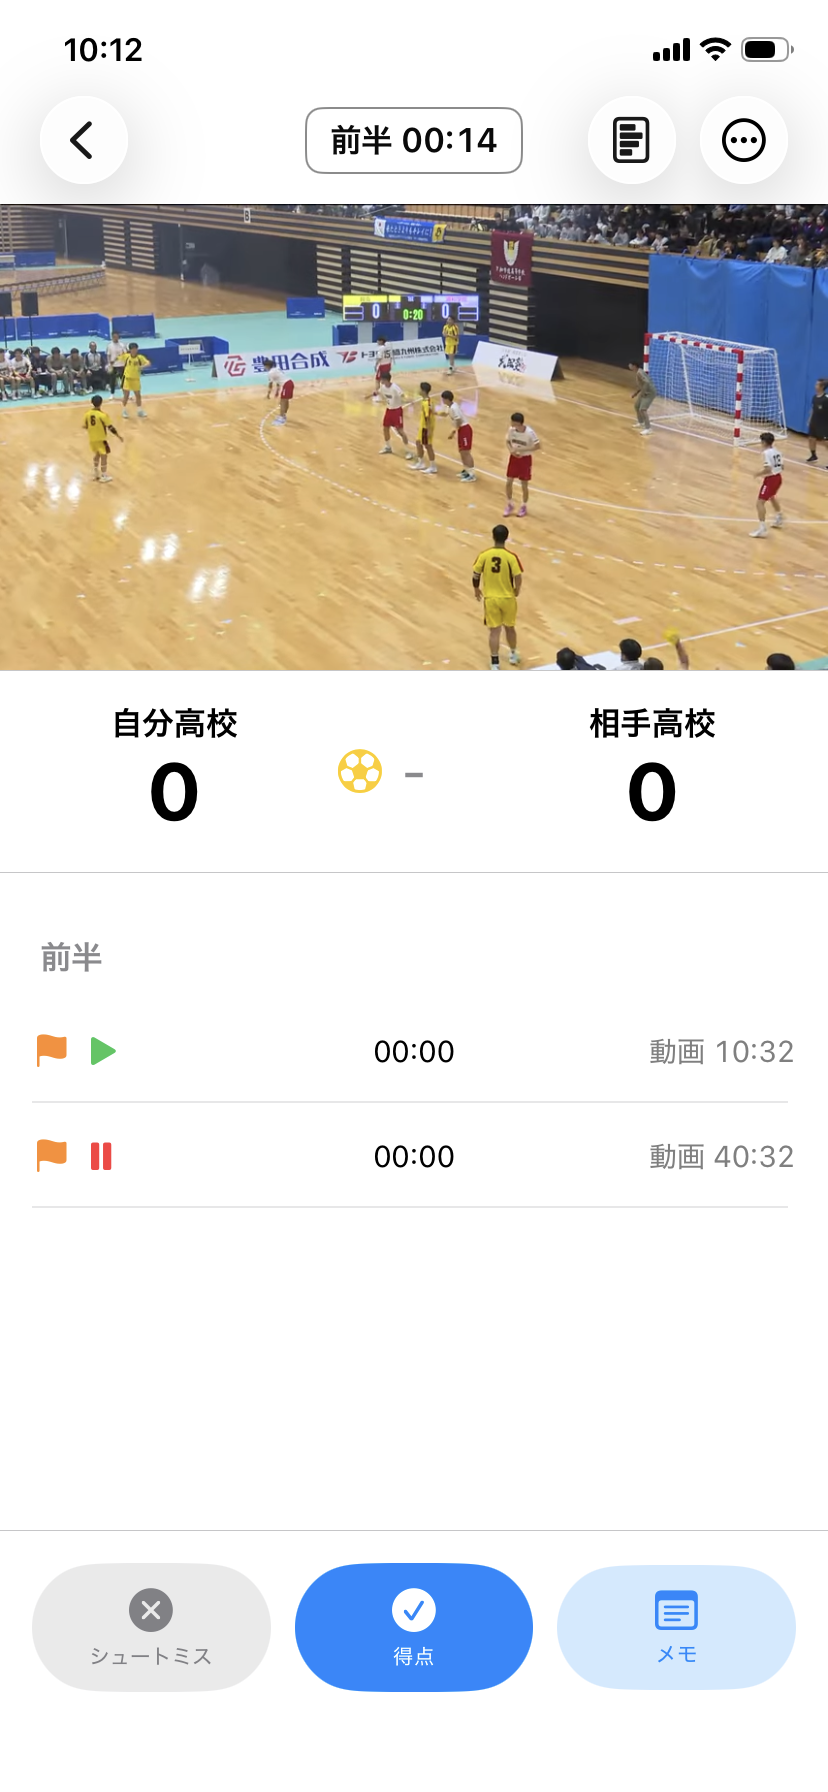
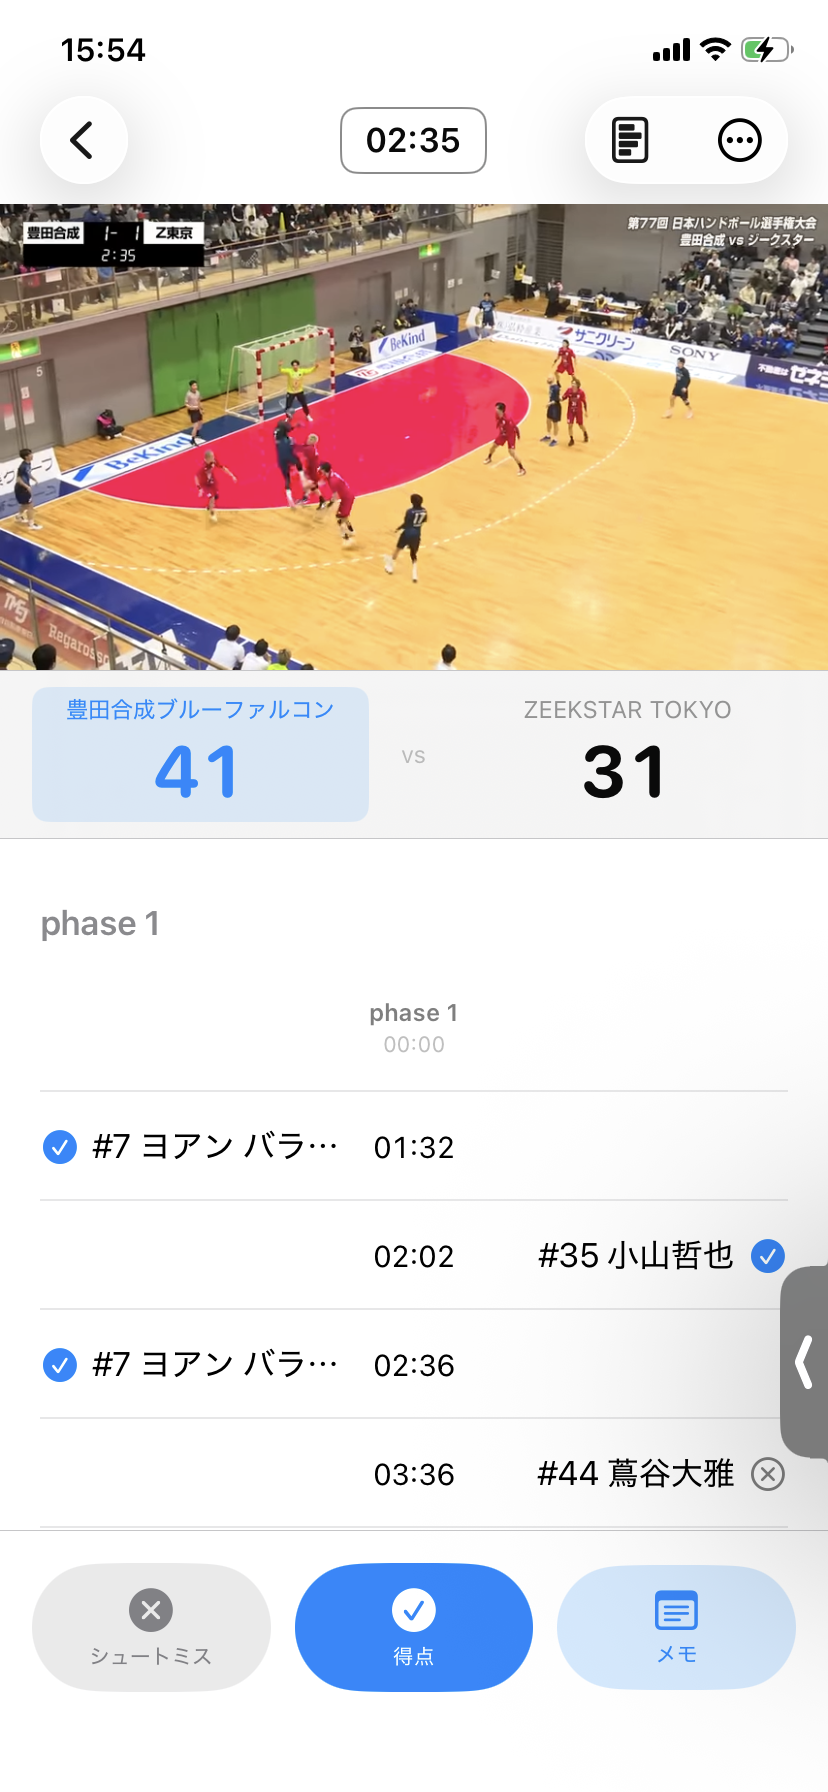
feat: セクション 1 のスクショを 1.1.0 UI に刷新し、ラベルと枠のオーバーレイを追加
- recording-1/2 を新 UI のスクショに差し替え、recording-3 は削除（3 枚目は recording-1 を流用）
- 「↓得点をタップ / ↓決めた選手を選ぶ / ↓タップでシーンを再生」のステップラベルと対象を囲む枠を CSS オーバーレイ（% 座標）で実装
- 画像への焼き込みではないので、スクショ差し替え時は座標調整のみで済む

diff --git a/handball-recorder/index.html b/handball-recorder/index.html
@@ -43,9 +43,27 @@
         <p>試合を見返しながら、得点などのシーンをタップ操作で動画とつなげる。振り返りたいときに、見たいプレーだけをすぐ確認できます。</p>
         <figure class="screens">
             <div class="screens-track">
-                <div class="screens-slide"><img src="images/recording-1.png" alt="試合中の記録画面（動画と得点ボタン）"></div>
-                <div class="screens-slide"><img src="images/recording-2.png" alt="得点選手の選択シート"></div>
-                <div class="screens-slide"><img src="images/recording-3.png" alt="得点イベントが記録された画面"></div>
+                <div class="screens-slide">
+                    <div class="shot">
+                        <img src="images/recording-1.png" alt="動画を見ながらの記録画面（記録ボタンとイベントタイムライン）">
+                        <span class="shot-label" style="left: 49.5%; top: 81%;">↓得点をタップ</span>
+                        <span class="shot-box" style="left: 34.5%; top: 86%; width: 30%; height: 9%; border-radius: 999px;"></span>
+                    </div>
+                </div>
+                <div class="screens-slide">
+                    <div class="shot">
+                        <img src="images/recording-2.png" alt="得点した選手を選ぶシート">
+                        <span class="shot-label" style="left: 38.5%; top: 63.5%;">↓決めた選手を選ぶ</span>
+                        <span class="shot-box" style="left: 27%; top: 68%; width: 23%; height: 12%;"></span>
+                    </div>
+                </div>
+                <div class="screens-slide">
+                    <div class="shot">
+                        <img src="images/recording-1.png" alt="記録したイベントの行をタップしてシーンを再生">
+                        <span class="shot-label" style="left: 30%; top: 67.6%;">↓タップでシーンを再生</span>
+                        <span class="shot-box" style="left: 2.5%; top: 72.8%; width: 55%; height: 6.6%;"></span>
+                    </div>
+                </div>
             </div>
             <div class="screens-dots"></div>
         </figure>

diff --git a/style.css b/style.css
@@ -249,6 +249,38 @@ footer.site {
     border-radius: 14px;
 }
 
+.shot {
+    position: relative;
+    max-width: 320px;
+    width: 100%;
+}
+
+.shot img {
+    display: block;
+}
+
+.shot-label {
+    position: absolute;
+    transform: translateX(-50%);
+    background: var(--accent);
+    color: #ffffff;
+    font-size: 13px;
+    font-weight: 700;
+    line-height: 1.5;
+    padding: 4px 14px;
+    border-radius: 999px;
+    white-space: nowrap;
+    box-shadow: 0 2px 8px var(--accent-shadow);
+}
+
+.shot-box {
+    position: absolute;
+    border: 5px solid var(--accent);
+    border-radius: 16px;
+    box-shadow: 0 0 0 2px rgba(255, 255, 255, 0.7), inset 0 0 0 2px rgba(255, 255, 255, 0.7);
+    pointer-events: none;
+}
+
 .screens-dots {
     display: flex;
     justify-content: center;
